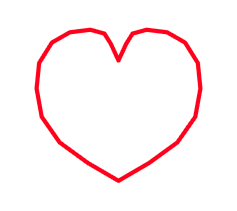
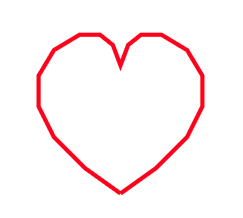
add 3 new shapes

Changed region(s): [[0.1181, 0.1137, 0.8565, 0.91]]

diff --git a/Tracr/data/shapes.js b/Tracr/data/shapes.js
@@ -132,29 +132,31 @@ export const shapes = [
         id: 10,
         name: "heart",
         path: [
-            { x: 0.50, y: 0.85 },
-            { x: 0.38, y: 0.78 },
-            { x: 0.27, y: 0.70 },
-            { x: 0.20, y: 0.60 },
-            { x: 0.18, y: 0.49 },
-            { x: 0.19, y: 0.39 },
-            { x: 0.24, y: 0.31 },
-            { x: 0.31, y: 0.27 },
-            { x: 0.39, y: 0.26 },
-            { x: 0.445, y: 0.275 },
-            { x: 0.47, y: 0.315 },
-            { x: 0.50, y: 0.38 },
-            { x: 0.53, y: 0.315 },
-            { x: 0.555, y: 0.275 },
-            { x: 0.61, y: 0.26 },
-            { x: 0.69, y: 0.27 },
-            { x: 0.76, y: 0.31 },
-            { x: 0.81, y: 0.39 },
-            { x: 0.82, y: 0.49 },
-            { x: 0.80, y: 0.60 },
-            { x: 0.73, y: 0.70 },
-            { x: 0.62, y: 0.78 },
-            { x: 0.50, y: 0.85 },
+            { x: 0.50, y: 0.88 },  // bottom tip
+
+            { x: 0.36, y: 0.78 },
+            { x: 0.24, y: 0.66 },
+            { x: 0.18, y: 0.54 },
+            { x: 0.18, y: 0.42 },
+            { x: 0.24, y: 0.32 },
+
+            { x: 0.34, y: 0.26 },  // left curve outer
+            { x: 0.42, y: 0.26 },  // left top inner
+
+            { x: 0.47, y: 0.30 },
+            { x: 0.50, y: 0.36 },  // center dip
+
+            { x: 0.53, y: 0.30 },
+            { x: 0.58, y: 0.26 },  // right top inner
+            { x: 0.66, y: 0.26 },  // right curve outer
+
+            { x: 0.76, y: 0.32 },
+            { x: 0.82, y: 0.42 },
+            { x: 0.82, y: 0.54 },
+            { x: 0.76, y: 0.66 },
+
+            { x: 0.64, y: 0.78 },
+            { x: 0.50, y: 0.88 },  // close
         ]
     },
     {
@@ -223,5 +225,77 @@ export const shapes = [
 
             { x: 0.25, y: 0.4 },    // close
         ]
+    },
+    {
+        id: 14,
+        name: "airplane",
+        path: [
+            { x: 0.5, y: 0.05 },   // nose tip
+
+            { x: 0.56, y: 0.18 },  // upper right fuselage
+            { x: 0.58, y: 0.35 },  // wing root right
+            { x: 0.9, y: 0.55 },
+            { x: 0.9, y: 0.6 },   // right wing tip
+            { x: 0.58, y: 0.48 },  // trailing wing edge
+
+            { x: 0.55, y: 0.78 },   // lower right fuselage
+            { x: 0.65, y: 0.9 },    // right tail wing
+            { x: 0.5, y: 0.82 },   // tail center
+            { x: 0.35, y: 0.9 },    // left tail wing
+
+            { x: 0.45, y: 0.78 },   // lower left fuselage
+            { x: 0.42, y: 0.48 },  // trailing wing edge
+            { x: 0.1, y: 0.6 },
+            { x: 0.1, y: 0.55 },     // left wing tip
+            { x: 0.42, y: 0.35 },  // wing root left
+
+            { x: 0.44, y: 0.18 },  // upper left fuselage
+
+            { x: 0.5, y: 0.05 },   // close
+        ]
+    },
+    {
+        id: 15,
+        name: "house",
+        path: [
+            { x: 0.2, y: 0.5 },   // left wall
+            { x: 0.40, y: 0.23 },   // roof peak
+
+            // chimney
+            { x: 0.58, y: 0.23 },
+            { x: 0.58, y: 0.12 },
+            { x: 0.68, y: 0.12 },
+            { x: 0.68, y: 0.28 },
+
+            // roof down
+            { x: 0.8, y: 0.5 },   // right roof edge
+
+            { x: 0.8, y: 0.8 },   // right wall
+            { x: 0.2, y: 0.8 },   // bottom
+            { x: 0.2, y: 0.5 }    // close
+        ]
+    },
+    {
+        id: 16,
+        name: "sailboat",
+        path: [
+            { x: 0.15, y: 0.7 },   // hull left
+            { x: 0.85, y: 0.7 },   // hull right
+            { x: 0.7, y: 0.9 },   // hull bottom right
+            { x: 0.3, y: 0.9 },   // hull bottom left
+
+            { x: 0.15, y: 0.7 },   // close hull
+
+            { x: 0.5, y: 0.7 },    // mast bottom
+            { x: 0.5, y: 0.2 },    // mast top
+
+            { x: 0.8, y: 0.55 },   // sail outer
+            { x: 0.5, y: 0.55 },
+            { x: 0.5, y: 0.2 },    // sail tip
+            { x: 0.5, y: 0.7 },    // sail base
+
+            { x: 0.15, y: 0.7 },   // close
+        ]
     }
+
 ]

diff --git a/Tracr/src/app/library.jsx b/Tracr/src/app/library.jsx
@@ -52,6 +52,9 @@ export default function Shapes() {
     lightning: require("@/data/images/lightning.png"),
     butterfly: require("@/data/images/butterfly.png"),
     bear: require("@/data/images/bear.png"),
+    airplane: require("@/data/images/airplane.png"),
+    house: require("@/data/images/house.png"),
+    sailboat: require("@/data/images/sailboat.png"),
   };
 
   return (
